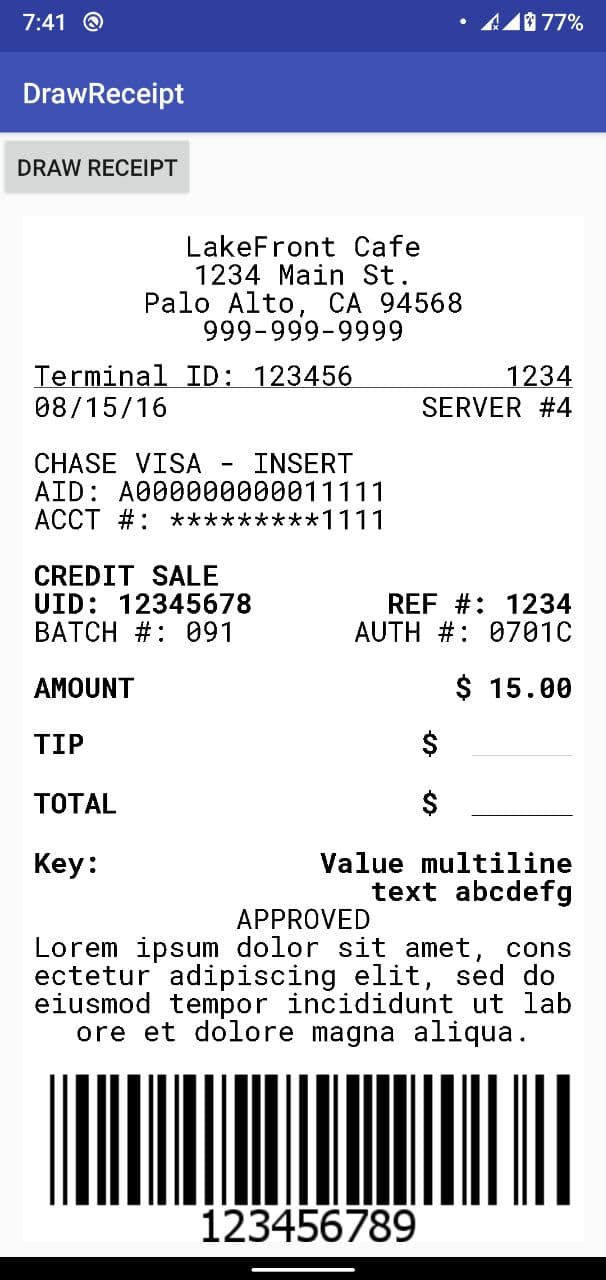
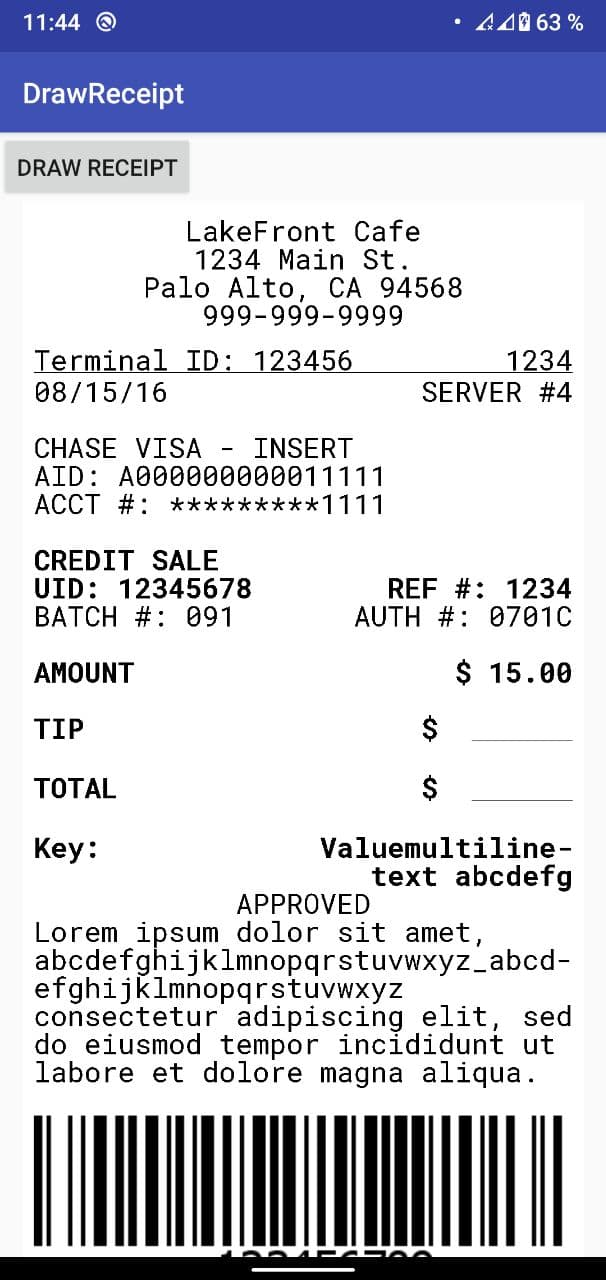
updated usage in README.md

diff --git a/README.md b/README.md
@@ -19,7 +19,7 @@ dependencies {
 
 # Usage
 
-        String longText = "Lorem ipsum dolor sit amet, consectetur adipiscing elit, sed do eiusmod tempor incididunt ut labore et dolore magna aliqua.";
+        String longText = "Lorem ipsum dolor sit amet, abcdefghijklmnopqrstuvwxyz_abcdefghijklmnopqrstuvwxyz consectetur adipiscing elit, sed do eiusmod tempor incididunt ut labore et dolore magna aliqua.";
         int labelWidth = 1000;
         Bitmap barcode = BitmapFactory.decodeResource(this.getResources(), R.drawable.barcode);
         ReceiptBuilder receipt = new ReceiptBuilder(labelWidth);
@@ -80,11 +80,12 @@ dependencies {
                 setAlign(Paint.Align.LEFT).
                 addText("Key:", false).
                 setAlign(Paint.Align.RIGHT).
-                addMultilineText("Value multilinetext abcdefg", labelWidth/2).
+                addMultilineText("Valuemultilinetext abcdefg", labelWidth/2, true).
                 setAlign(Paint.Align.CENTER).
                 setTypeface(this, "fonts/RobotoMono-Regular.ttf").
                 addText("APPROVED").
-                addMultilineText(longText).
+                setAlign(Paint.Align.LEFT).
+                addMultilineText(longText, true).
                 addParagraph().
                 addImage(barcode);
         ivReceipt.setImageBitmap(receipt.build());
